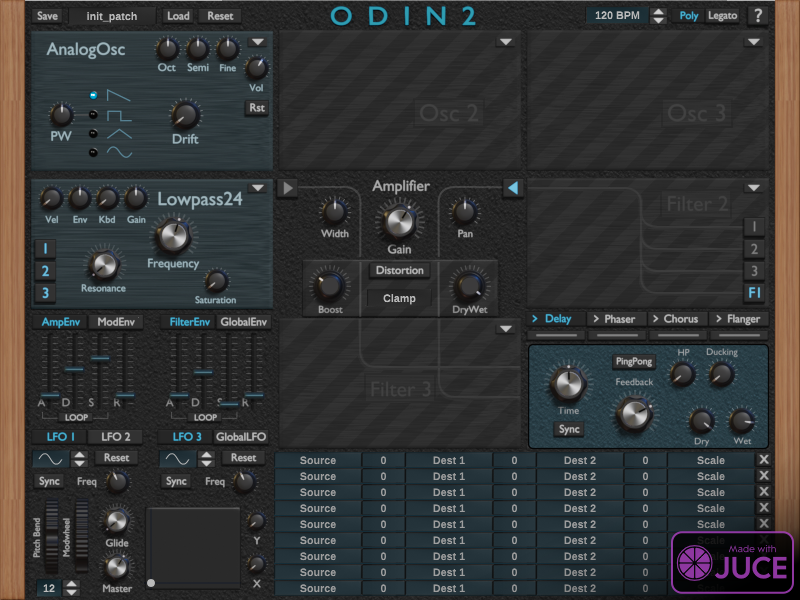
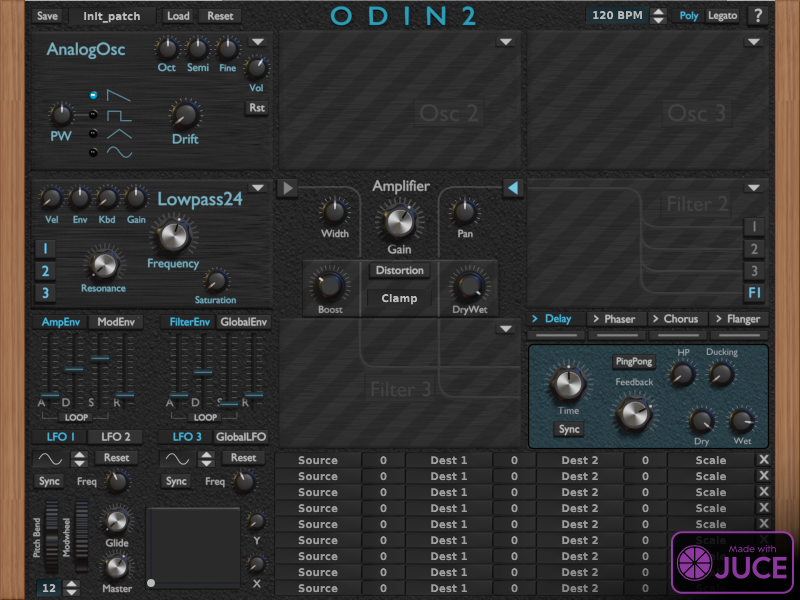
made entire synth blackish

diff --git a/Source/GlobalIncludes.h b/Source/GlobalIncludes.h
@@ -42,7 +42,8 @@
 #define MENU_HIGHLIGHT_FONT_COLOR Colour(62, 103, 117)
 #define MENU_HIGHLIGHT_BACKGROUND_COLOR Colour(50, 50, 50)
 //#define STANDARD_DISPLAY_COLOR Colour(10,40,50)
-#define STANDARD_DISPLAY_COLOR Colour(21, 45, 56)
+//#define STANDARD_DISPLAY_COLOR Colour(21, 45, 56)
+#define STANDARD_DISPLAY_COLOR Colour(30, 30, 30)
 #define PHASER_DISPLAY_COLOR Colour(11, 41, 19)
 #define FLANGER_DISPLAY_COLOR Colour(40, 20, 53)
 #define MULTI_DROPDOWN_COLOR juce::Colour(39, 58, 48)
